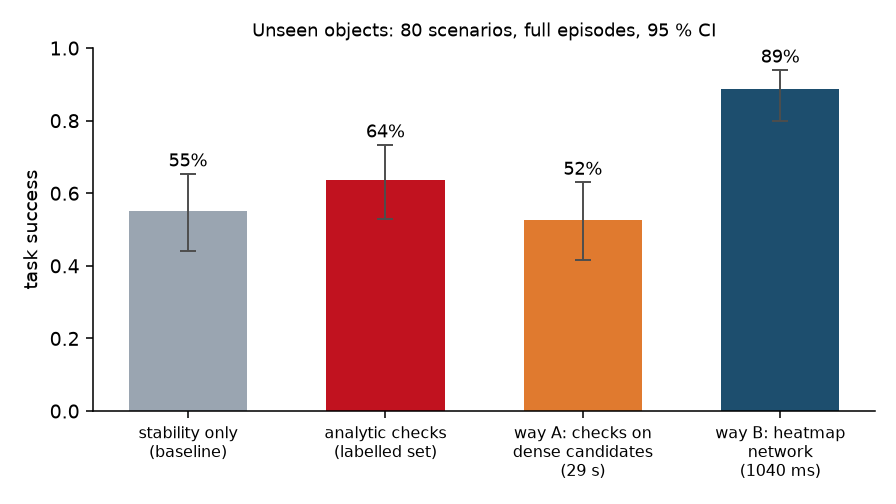
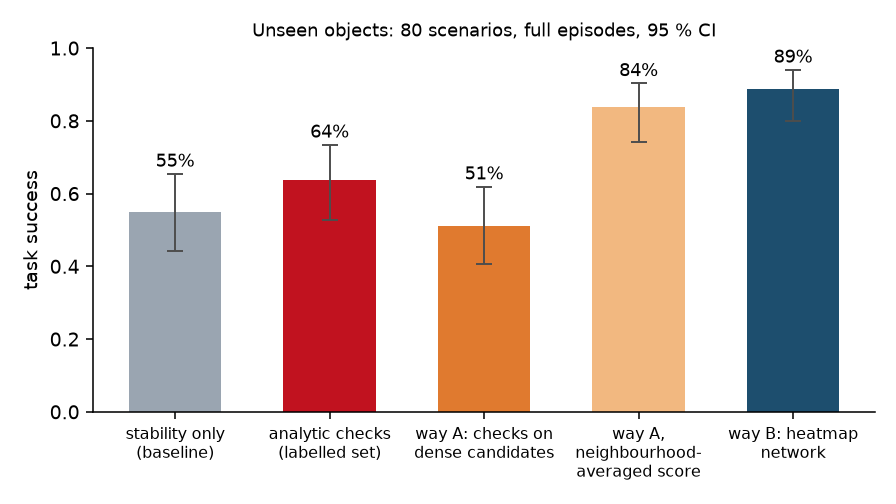
Way B final: 5-policy paired run with the renderer fix; neighbourhood-averaged way A explains the gap (51 -> 84 %); 3 seeds 89-94 %
Claude-Session: https://claude.ai/code/session_018n9sqndQo1kAvmaLx8LGsL

diff --git a/README.md b/README.md
@@ -25,9 +25,10 @@ what the static checks cannot see: slip during the motion.
 
 **Week 3: a goal-conditioned heatmap network** (way B) predicts, from the object's point cloud
 and the task, a grasp score and a grasp at every surface point in 7 ms on a laptop GPU. Its
-grasps succeed in **89 %** of 80 full episodes on unseen objects (baseline 55 %, analytic checks
-64 %; paired vs the checks: 27 won, 7 lost, p = 8e-4). Caveat and a surprise below: it beats
-the slow dense search it was trained to imitate (52 %).
+grasps succeed in **89–94 %** (3 seeds) of 80 full episodes on unseen objects (baseline 55 %,
+analytic checks 64 %; paired vs the checks: 27 won, 7 lost, p = 8e-4). It even beats the slow
+search it imitates (51 %); a controlled test shows why: it prefers regions where many grasps
+work over the single best-scoring one.
 
 **One-page summary:** [docs/grasp-to-show-summary.pdf](docs/grasp-to-show-summary.pdf)
 
@@ -435,29 +436,46 @@ the network's *own* grasp in a full episode:
 **In full episodes** (`scripts/eval_way_b.py`; 10 unseen objects × 8 start poses, half of them
 never in training). The network's best (point, target) pairs become grasps; the first 10 whose
 open gripper clears the object (the filter every sampled candidate gets) go through the exact
-start/target reach checks and the usual planning fallback, then a complete episode.
+start/target reach checks and the usual planning fallback, then a complete episode. All five
+policies run on the same scenarios (paired; Windows run, `data/episodes_way_b_final`).
 
 | Policy (80 scenarios, unseen objects) | Success [95 % CI] | slip | QR | collision | no grasp | way B wins / losses |
 |---|---|---|---|---|---|---|
 | stability only (baseline) | 55 % [44, 65] | 22 | 4 | 2 | 8 | 29 / 2 |
 | analytic checks (labelled candidates) | 64 % [53, 73] | 19 | 1 | 1 | 8 | 27 / 7 |
-| way A: all checks, ~1,000 dense candidates | 52 % [42, 63] | 23 | 8 | 7 | 0 | 30 / 1 |
+| way A: all checks, ~1,000 dense candidates, best score | 51 % [41, 62] | 24 | 8 | 7 | 0 | 31 / 1 |
+| way A, score averaged over neighbouring grasps | 84 % [74, 90] | 4 | 1 | 8 | 0 | 7 / 3 |
 | **way B: heatmap network** | **89 % [80, 94]** | 8 | 1 | 0 | 0 | |
 
-**Why does the student beat its teacher?** Way B was trained to imitate way A, yet way A is the
-worst policy here. Two observations, not yet proven explanations:
-- *Way A takes the maximum of an imperfect score over ~1,000 candidates* (lift stability from the
-  analytic model, not simulation). The argmax of many noisy estimates favours candidates whose
-  score is overestimated (the "winner's curse"); its grasps slip a median 12 mm.
-- *The network averages*: its score and its grasp at a point are smoothed over the neighbouring
-  candidates, so it prefers regions where many grasps work and proposes the central grasp of such a
-  region. Its grasps slip a median 3.9 mm. It also escapes the labelled set: on the one test object
-  where none of the 69 labelled candidates both holds when lifted (14 do) and is reachable (8
-  scenarios, "no grasp" for the labelled-set policies), way B succeeds 8/8.
+Three training seeds of way B: **89 %, 94 %, 93 %** (mean 92 %); offline point AUC 0.93–0.94.
 
-Caveats: one training seed; labels from the analytic checks only (the simulator judges the
-episodes); 80 scenarios. Testing the explanation (way A with a neighbourhood-smoothed score) is
-the next experiment.
+![way B on unseen objects](media/way_b_objects.png)
+
+*Four unseen objects. Top: way A, the checks run on ~1,000 candidates (~25 s). Bottom: the
+network's map from one forward pass (7 ms) and its top grasp (orange), for the target it rates
+best. Arrow: gravity at the target; red: the QR patch.*
+
+![way B episodes](media/way_b_demo.gif)
+
+*The network's grasps executed in full simulation on two unseen objects; left, the box for which
+none of the labelled candidates was usable.*
+
+**Why does the student beat its teacher?** Way B was trained to imitate way A, yet plain way A
+is the worst policy here. The hypothesis was that way A takes the *maximum* of an imperfect score
+over ~1,000 candidates, which favours candidates whose score is overestimated (the winner's
+curse: lift stability here comes from the analytic model, not simulation), while the network
+*averages* over neighbouring candidates and so prefers regions where many grasps work. The test,
+decided before running it: rank way A's own feasible candidates by their score averaged over the
+neighbouring grasps (TCP within 1 cm, axes within 30°). Result: **51 % → 84 %** (28 scenarios
+won, 2 lost, p = 9e-7), with slip failures falling from 24 to 4, and the network is no longer
+significantly better (7 / 3, p = 0.34). So most of way B's advantage comes from preferring
+robust *regions* over the single best-scoring grasp, an effect that a cheap smoothing step
+also gets; the network delivers it in 7 ms instead of 25 s, and with fewer collisions (0 vs 8),
+because its proposed grasps sit centrally in such regions.
+
+Caveats: labels from the analytic checks only (the simulator judges the episodes); 80
+scenarios. An earlier run of the smoothed variant was corrupted by a rendering bug (see design
+notes); every other result was re-run with the fix and reproduced exactly (80 / 80 identical).
 
 
 ## C++ kernels
@@ -496,6 +514,7 @@ in a robot: a dependency-free C++ core that can run inside a controller.
 | **Two QR decoders** | OpenCV's classic detector missed a fully visible 90-px code on busy packaging; its ArUco-based detector read it. Real scanners are robust, so the judge tries both. |
 | **Gross-slip threshold 20 mm / 15°** | A 70 g box with 96 % friction reserve still creeps a few mm; a 5 mm limit would score the simulator, not the grasp. Exact slip is always recorded. |
 | **Target configuration closest to the start one** | The checker first picked the target configuration with the most joint-limit margin; the arm then spun its wrist 265° while carrying the object. |
+| **One live offscreen renderer per process** | Freeing a MuJoCo renderer deletes GL objects in whichever context is current. When an old episode object was garbage-collected after a new one had made its renderer, the new scanner image became noise (Linux) or wrong (Windows) and counted as an unreadable QR. Found because one variant failed 68 times on "QR"; a guard now rejects noise images. |
 | **Collision-checked joint-space segments with detours** | The transit swung held objects into the table; the planner now checks the path and detours via a raised pose. |
 
 ## Repository layout
